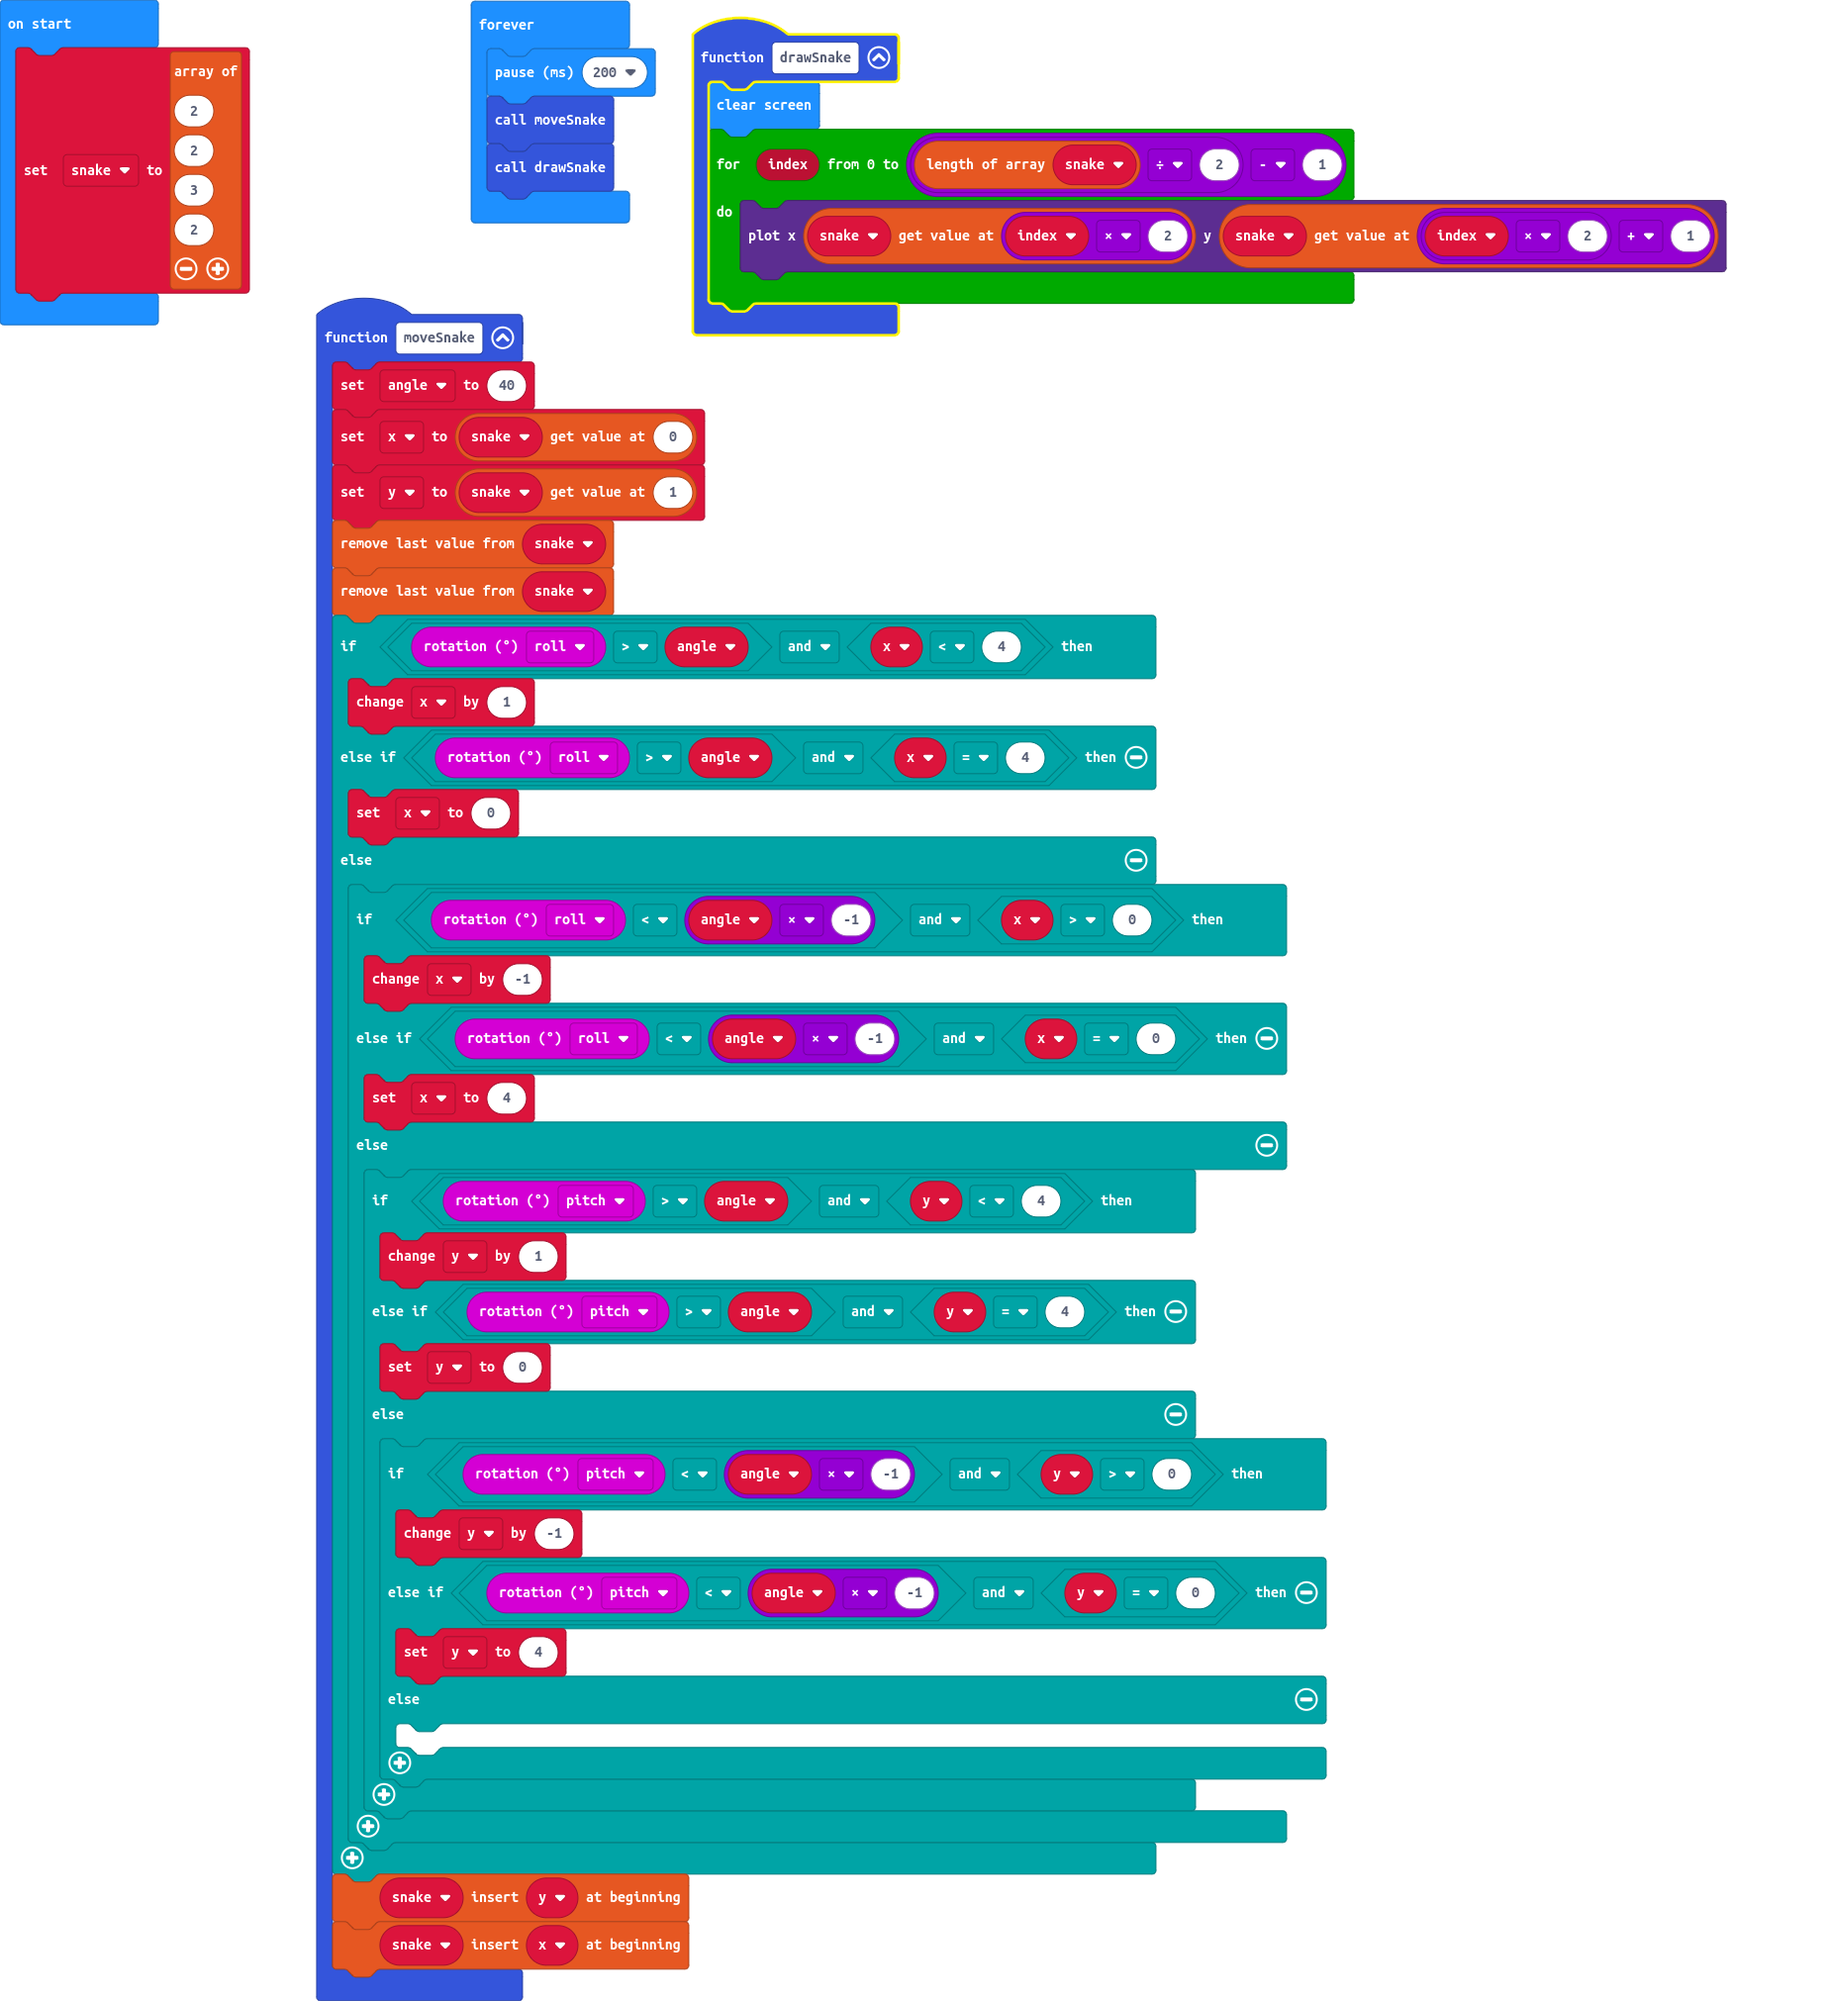
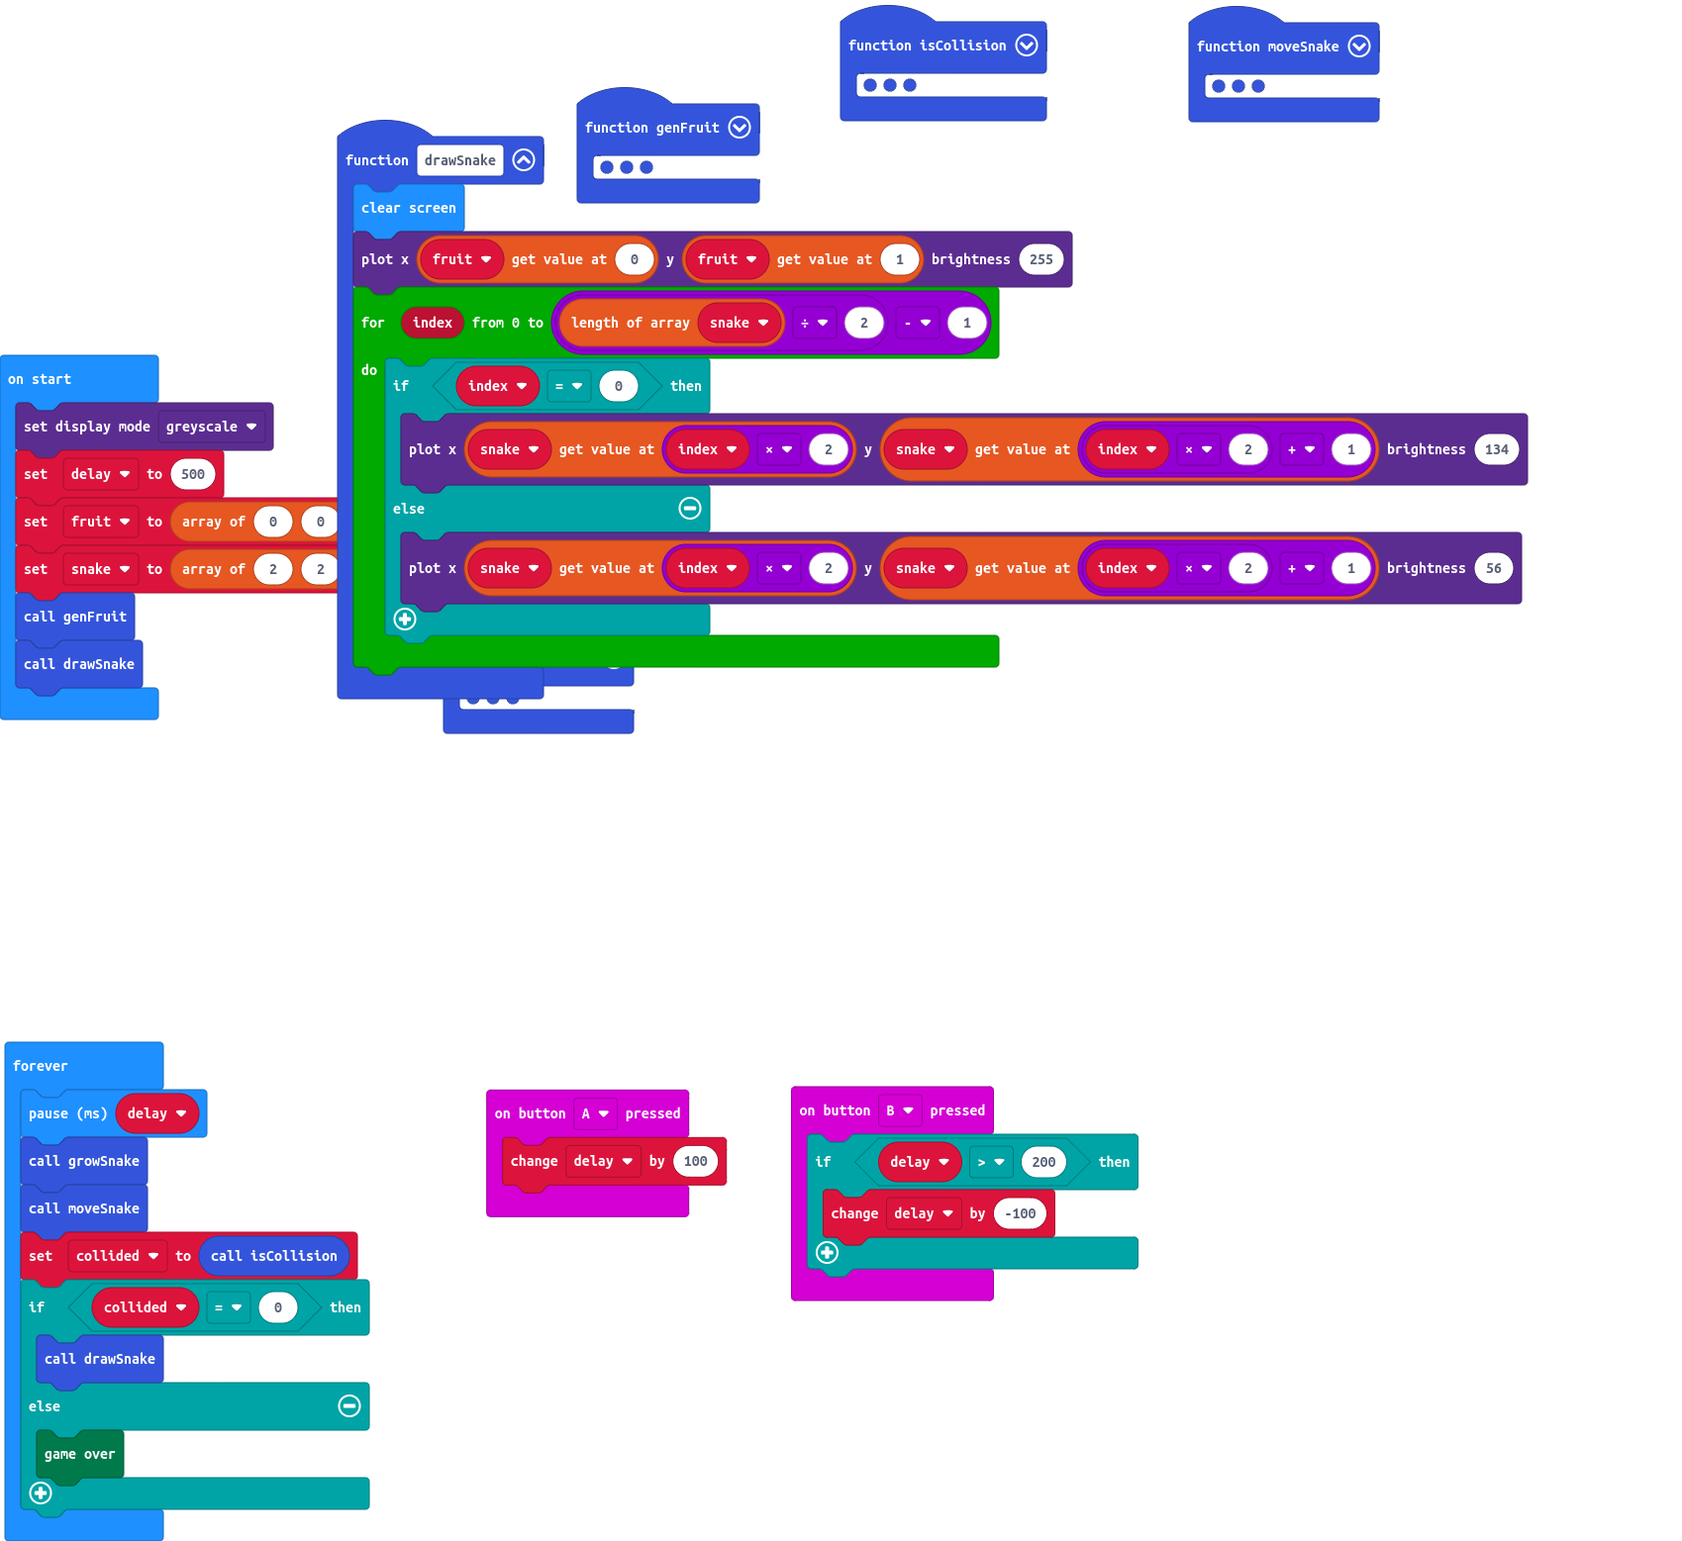
Added delay

diff --git a/main.ts b/main.ts
@@ -1,55 +1,120 @@
-function moveSnake () {
-    angle = 40
+input.onButtonPressed(Button.A, function () {
+    delay += 100
+})
+function isCollision () {
     x = snake[0]
     y = snake[1]
-    snake.pop()
-    snake.pop()
-    if (input.rotation(Rotation.Roll) > angle && x < 4) {
-        x += 1
-    } else if (input.rotation(Rotation.Roll) > angle && x == 4) {
-        x = 0
-    } else {
-        if (input.rotation(Rotation.Roll) < angle * -1 && x > 0) {
-            x += -1
-        } else if (input.rotation(Rotation.Roll) < angle * -1 && x == 0) {
-            x = 4
+    collided = 0
+    for (let index = 0; index <= snake.length / 2 - 1; index++) {
+        if (index == 0) {
+            continue;
         } else {
-            if (input.rotation(Rotation.Pitch) > angle && y < 4) {
-                y += 1
-            } else if (input.rotation(Rotation.Pitch) > angle && y == 4) {
-                y = 0
-            } else {
-                if (input.rotation(Rotation.Pitch) < angle * -1 && y > 0) {
-                    y += -1
-                } else if (input.rotation(Rotation.Pitch) < angle * -1 && y == 0) {
-                    y = 4
-                } else {
-                	
-                }
+            if (x == snake[index * 2] && y == snake[index * 2 + 1]) {
+                collided = 1
+                break;
             }
         }
     }
-    snake.unshift(y)
-    snake.unshift(x)
+    return collided
 }
-function drawSnake () {
-    basic.clearScreen()
-    for (let index = 0; index <= snake.length / 2 - 1; index++) {
-        led.plot(snake[index * 2], snake[index * 2 + 1])
+function genFruit () {
+    while (true) {
+        x = randint(0, 4)
+        y = randint(0, 4)
+        collided = 0
+        for (let index = 0; index <= snake.length / 2 - 1; index++) {
+            if (x == snake[index * 2] && y == snake[index * 2 + 1]) {
+                collided = 1
+            }
+        }
+        if (collided == 0) {
+            fruit[0] = x
+            fruit[1] = y
+            break;
+        }
     }
 }
+function growSnake () {
+    if (snake[0] == fruit[0] && snake[1] == fruit[1]) {
+        game.setScore(game.score() + 1)
+        snake.push(snake[snake.length] - 2)
+        snake.push(snake[snake.length] - 2)
+        genFruit()
+    }
+}
+function moveSnake () {
+    angle = 40
+    minusAngle = angle * -1
+    if (input.rotation(Rotation.Roll) > angle || input.rotation(Rotation.Roll) < minusAngle || (input.rotation(Rotation.Pitch) > angle || input.rotation(Rotation.Pitch) < minusAngle)) {
+        x = snake[0]
+        y = snake[1]
+        snake.pop()
+        snake.pop()
+        if (input.rotation(Rotation.Roll) > angle && x < 4) {
+            x += 1
+        } else if (input.rotation(Rotation.Roll) > angle && x == 4) {
+            x = 0
+        } else {
+            if (input.rotation(Rotation.Roll) < minusAngle && x > 0) {
+                x += -1
+            } else if (input.rotation(Rotation.Roll) < minusAngle && x == 0) {
+                x = 4
+            } else {
+                if (input.rotation(Rotation.Pitch) > angle && y < 4) {
+                    y += 1
+                } else if (input.rotation(Rotation.Pitch) > angle && y == 4) {
+                    y = 0
+                } else {
+                    if (input.rotation(Rotation.Pitch) < minusAngle && y > 0) {
+                        y += -1
+                    } else if (input.rotation(Rotation.Pitch) < minusAngle && y == 0) {
+                        y = 4
+                    }
+                }
+            }
+        }
+        snake.unshift(y)
+        snake.unshift(x)
+    }
+}
+input.onButtonPressed(Button.B, function () {
+    if (delay > 200) {
+        delay += -100
+    }
+})
+function drawSnake () {
+    basic.clearScreen()
+    led.plotBrightness(fruit[0], fruit[1], 255)
+    for (let index = 0; index <= snake.length / 2 - 1; index++) {
+        if (index == 0) {
+            led.plotBrightness(snake[index * 2], snake[index * 2 + 1], 134)
+        } else {
+            led.plotBrightness(snake[index * 2], snake[index * 2 + 1], 56)
+        }
+    }
+}
+let minusAngle = 0
+let angle = 0
+let collided = 0
 let y = 0
 let x = 0
-let angle = 0
 let snake: number[] = []
-snake = [
-2,
-2,
-3,
-2
-]
+let fruit: number[] = []
+let delay = 0
+led.setDisplayMode(DisplayMode.Greyscale)
+delay = 500
+fruit = [0, 0]
+snake = [2, 2]
+genFruit()
+drawSnake()
 basic.forever(function () {
-    basic.pause(200)
+    basic.pause(delay)
+    growSnake()
     moveSnake()
-    drawSnake()
+    collided = isCollision()
+    if (collided == 0) {
+        drawSnake()
+    } else {
+        game.gameOver()
+    }
 })
